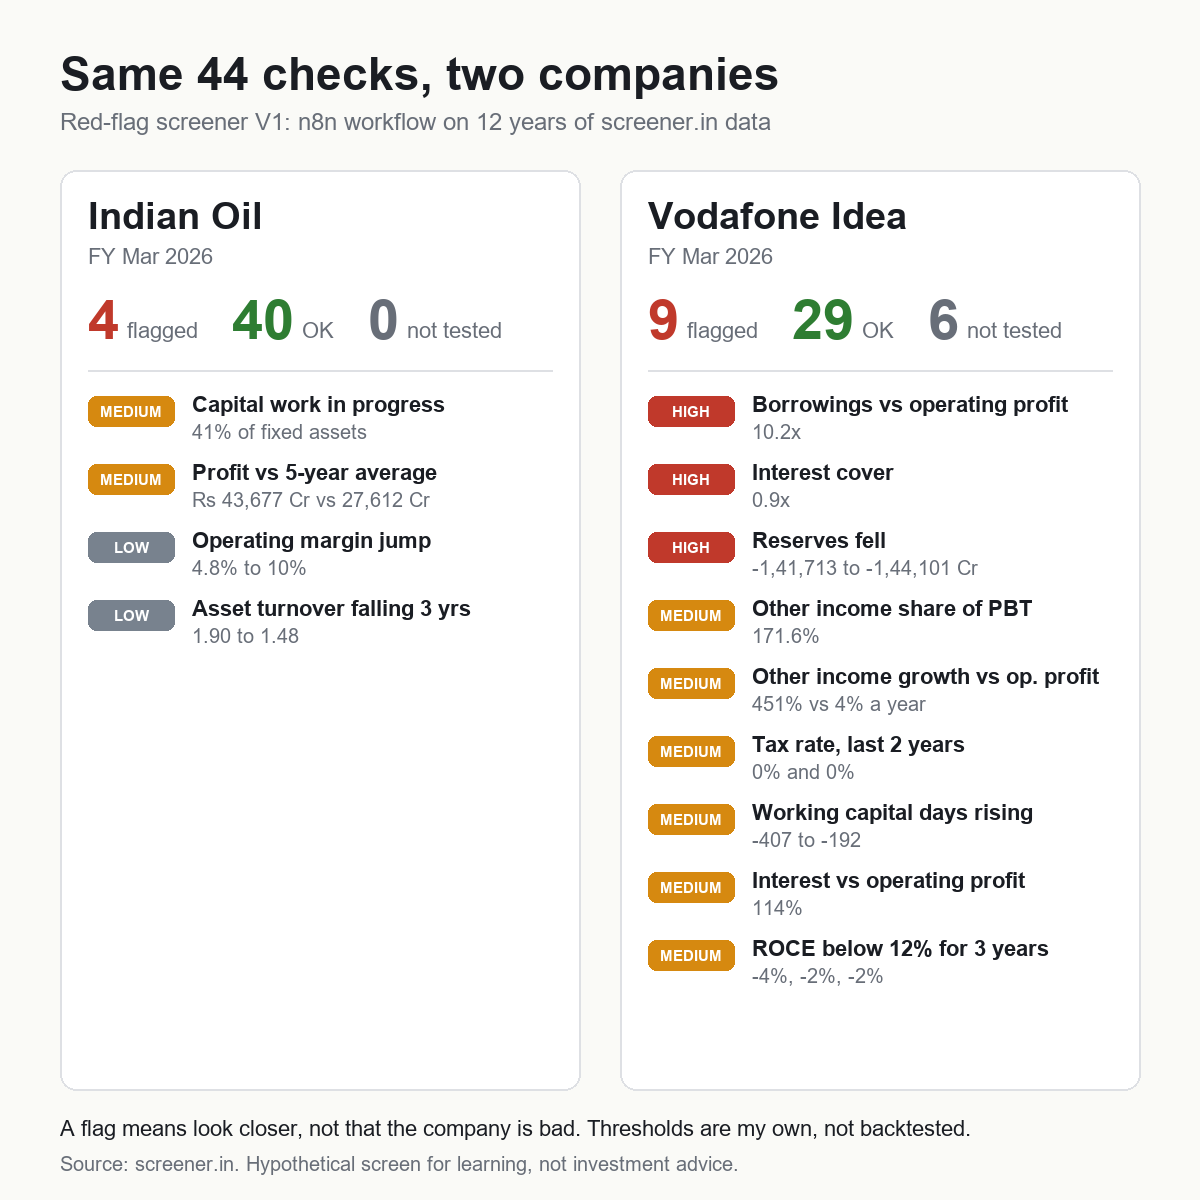
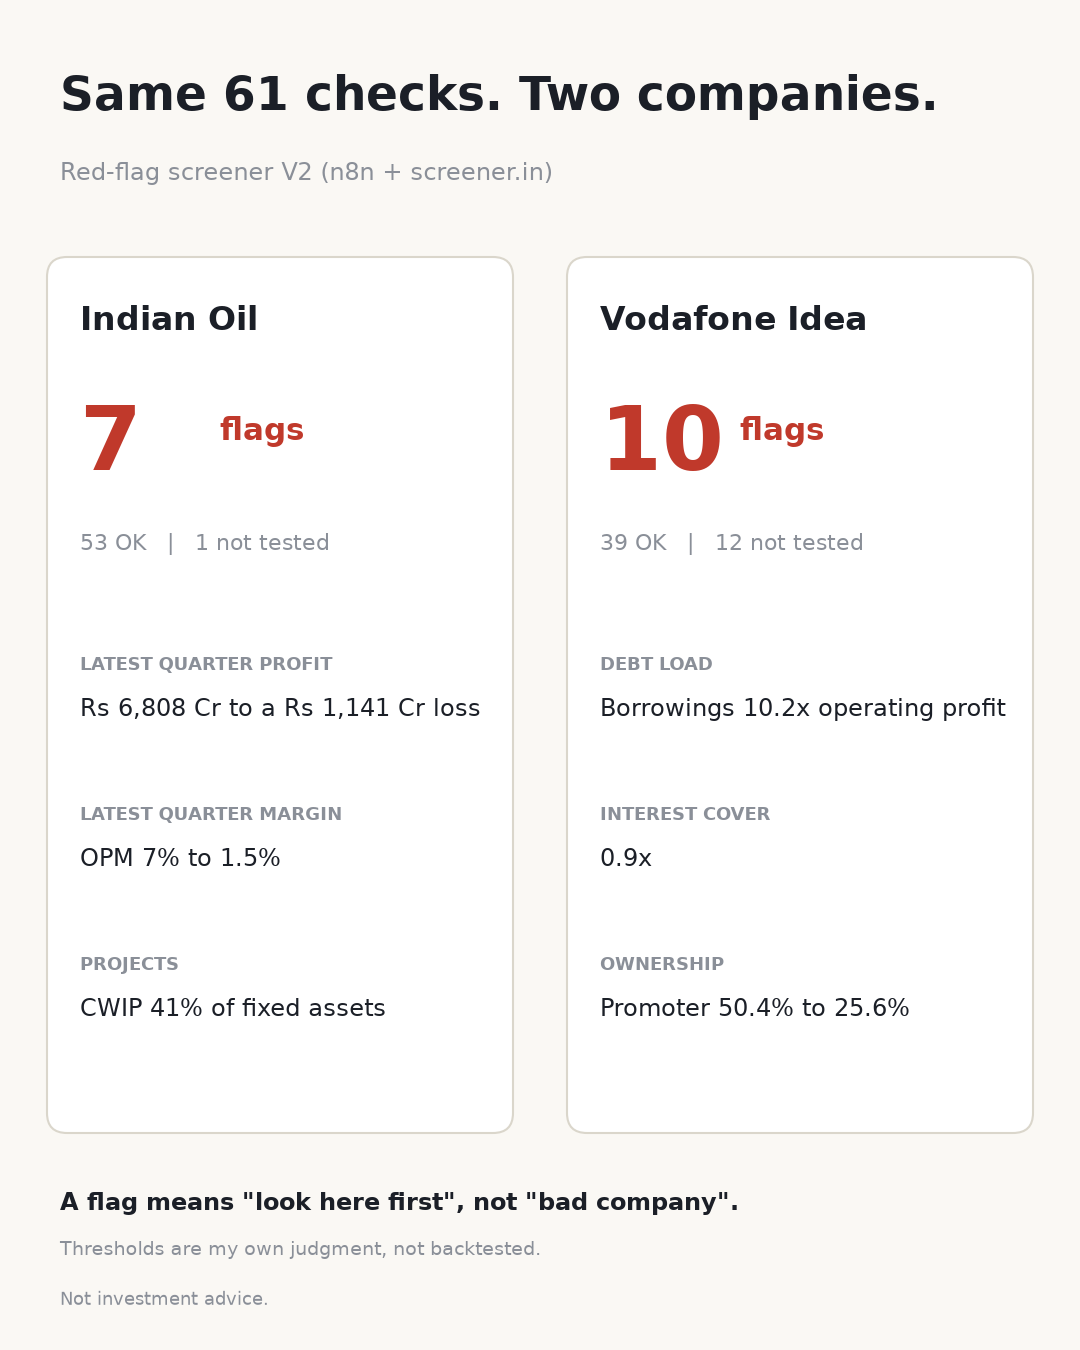
docs: update README image and intro for V2 (61 checks)

diff --git a/README.md b/README.md
@@ -1,8 +1,8 @@
 # Red-flag screener (n8n)
 
-Type a ticker. This n8n workflow pulls 12 years of statements, 12 quarters and the shareholding pattern from
-screener.in, runs 61 checks, and downloads an Excel report. Every check is marked FLAG, OK or Not tested, with
-the numbers behind it.
+Type a ticker. This n8n workflow pulls 12 years of statements, 12 quarters and the shareholding pattern from screener.in,
+runs 61 checks on earnings quality, cash flow, working capital, leverage, returns, margins, ownership, valuation
+and the latest quarter, and downloads an Excel report. Every check is marked FLAG, OK or Not tested, with the numbers behind it.
 
 ![Indian Oil vs Vodafone Idea](docs/side-by-side.png)
 
